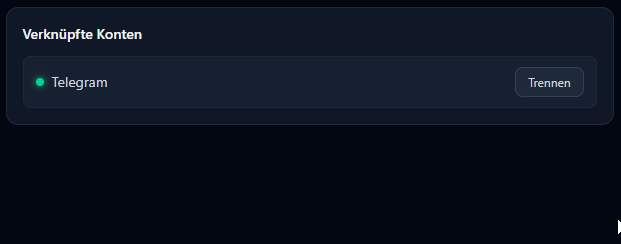
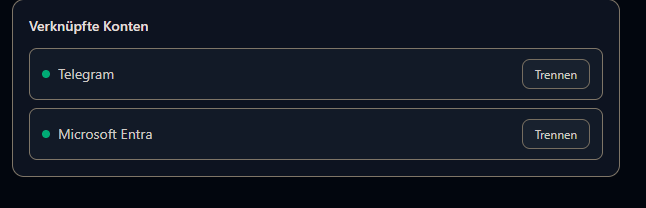
docs: Screenshot Verknüpfte Konten mit Telegram und Microsoft Entra

diff --git a/docs/manual/users.md b/docs/manual/users.md
@@ -113,7 +113,7 @@ unterschiedlichen Stellen, je nachdem worum es geht:
   sondern **Self-Service**: jeder Nutzer verknüpft seine eigenen Konten selbst, auf seiner
   eigenen Profilseite (**Mein Konto** → "Verknüpfte Konten" → "Verbinden").
 
-![Verknüpfte Konten auf „Mein Konto" mit einem verbundenen Telegram-Account](../assets/screenshots/manual/me-linked-accounts.png)
+![Verknüpfte Konten auf „Mein Konto" mit verbundenem Telegram- und Microsoft-Entra-Konto](../assets/screenshots/manual/me-linked-accounts.png)
 
 Ein externes Konto lässt sich immer nur mit **einem** Hannah-Nutzer verknüpfen. Sein
 eigenes Konto trennt jeder selbst; ein fremdes zu trennen braucht Trust-Level ≥ 10.
